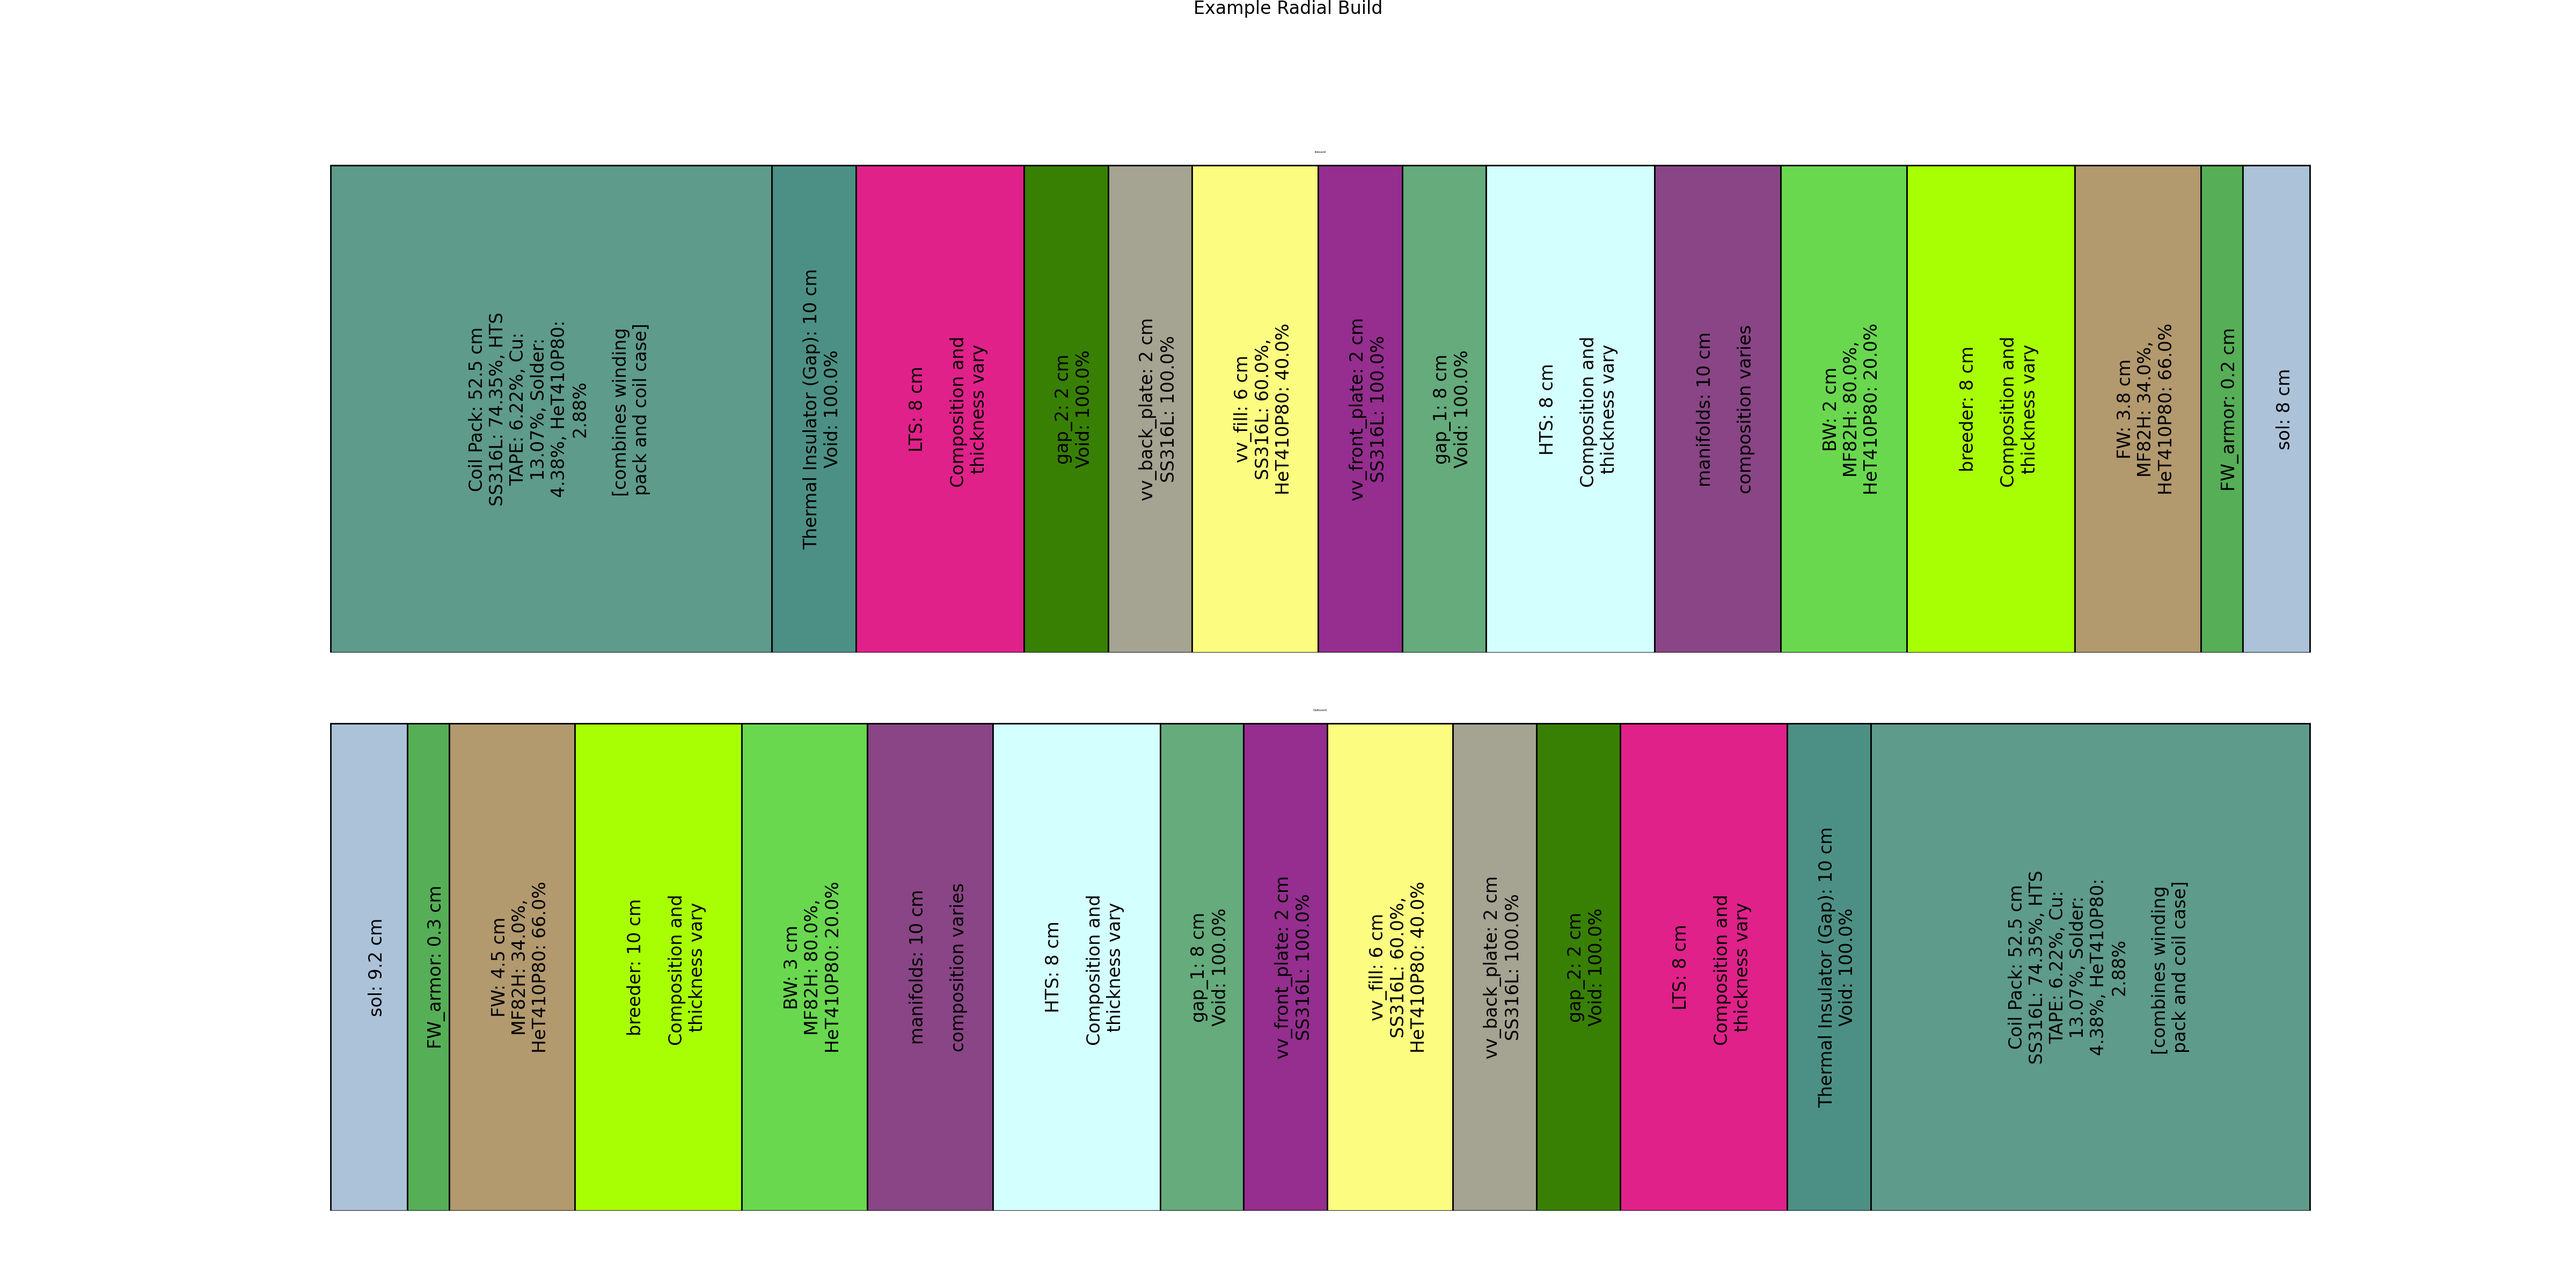
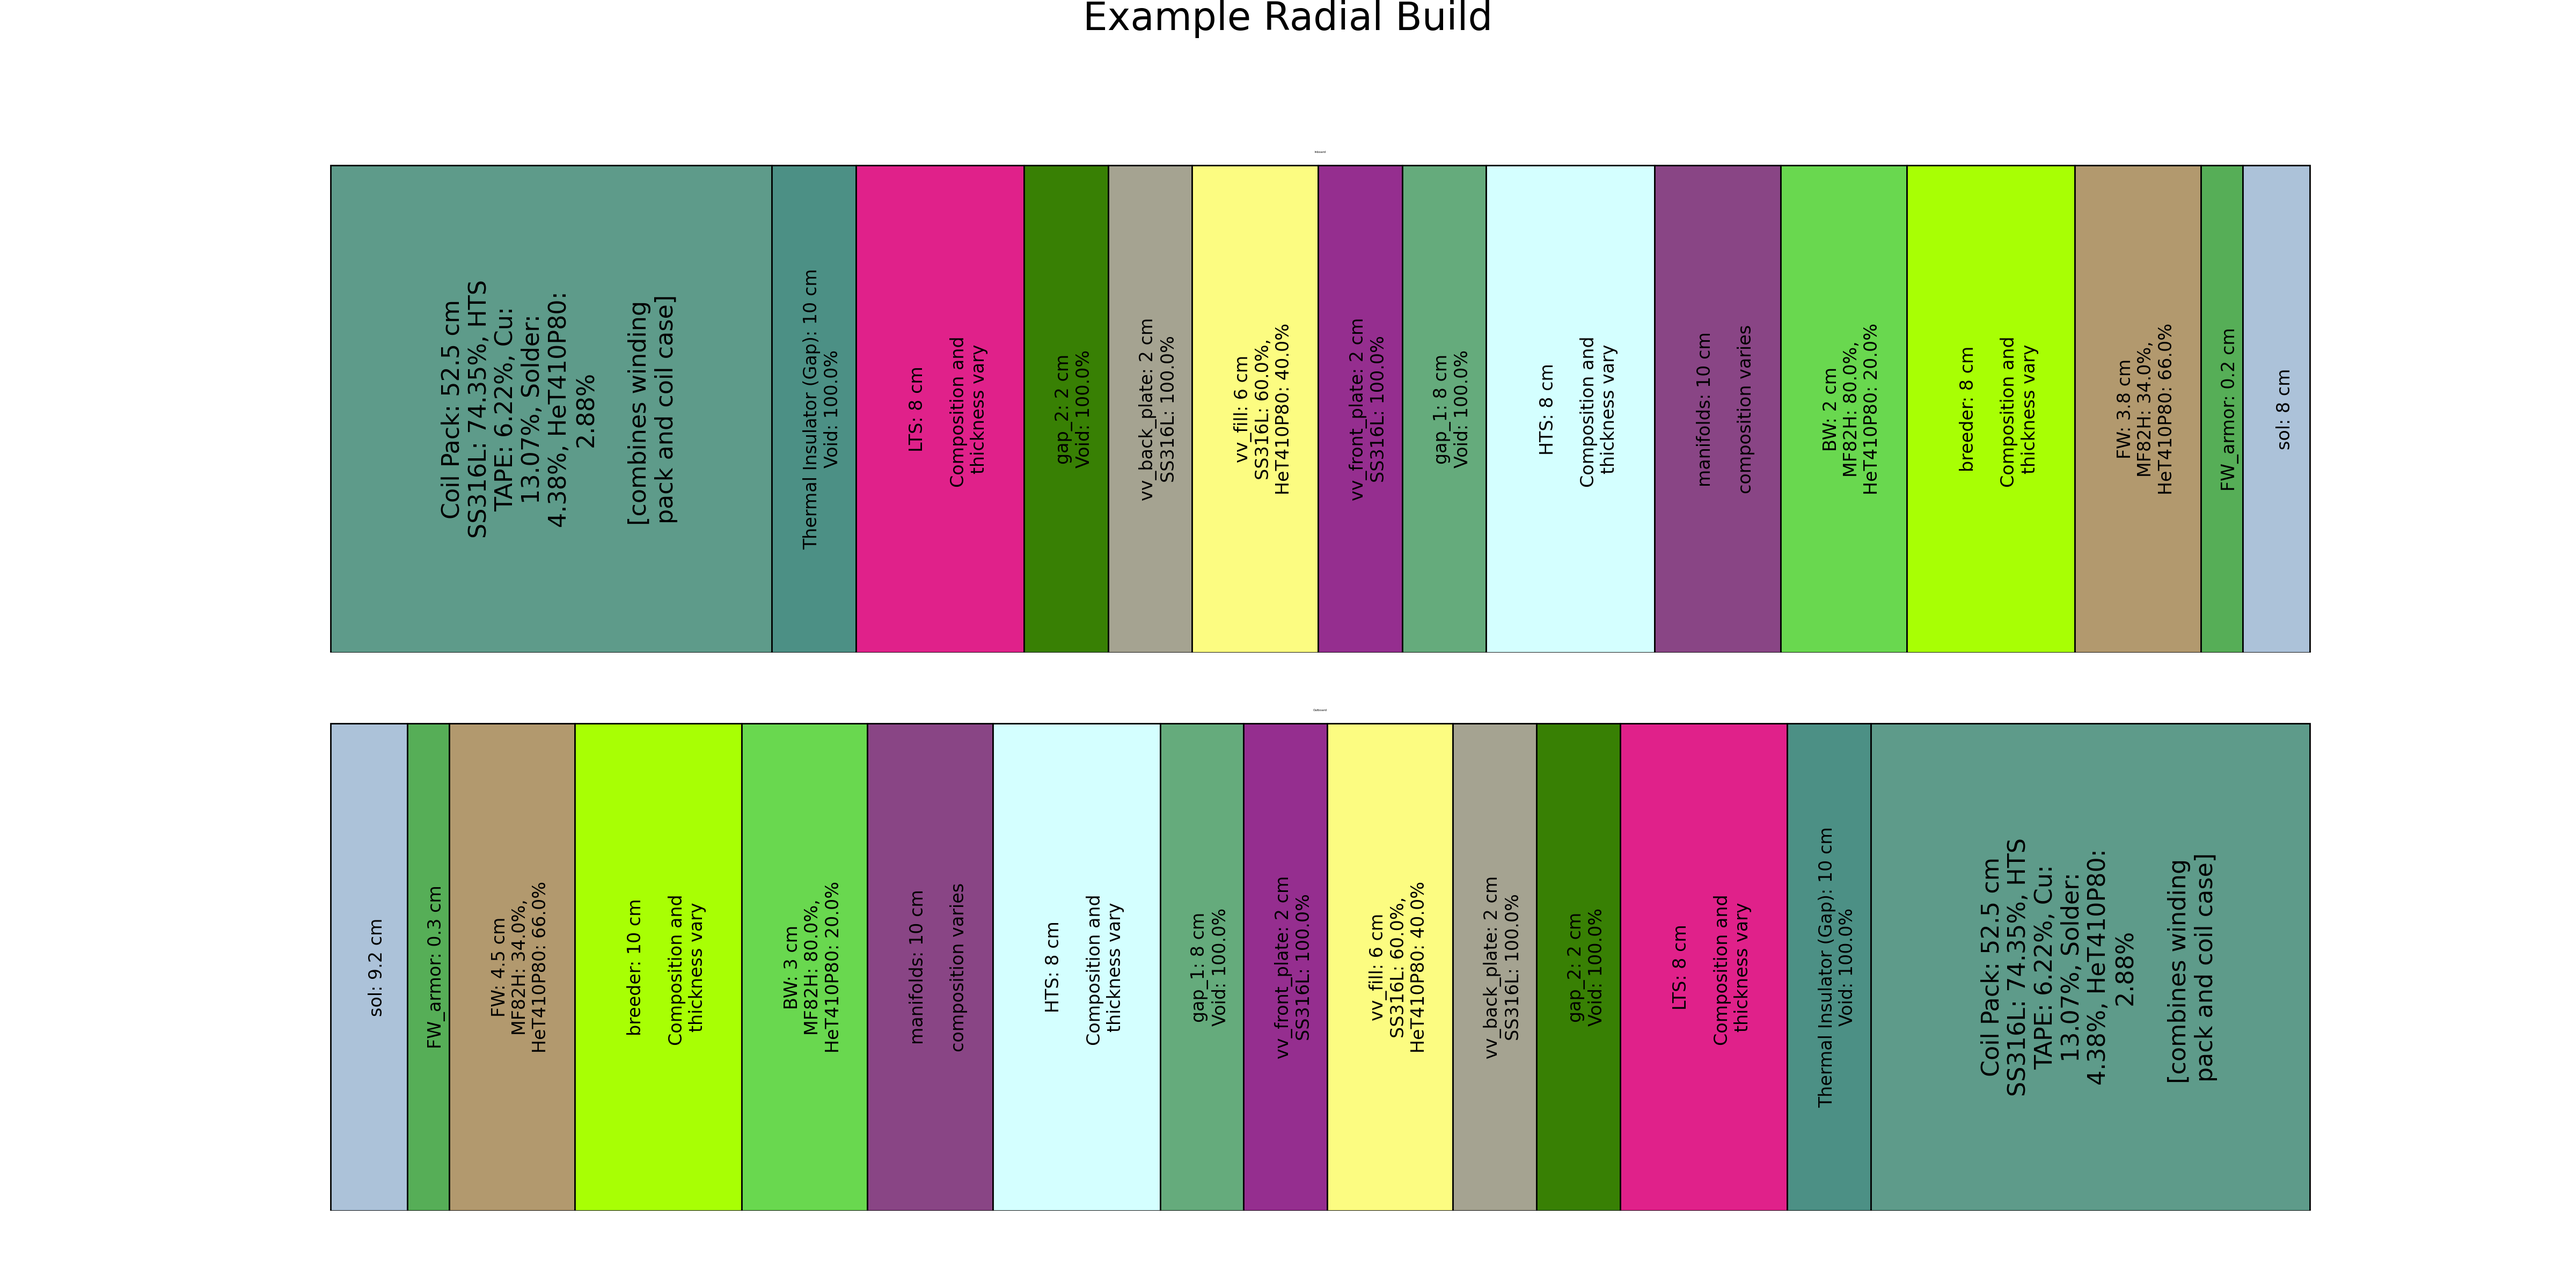
fontsize changes

Changed region(s): [[0.7812, 0.6562, 0.875, 0.8438], [0.1562, 0.2188, 0.25, 0.4062], [0.4062, 0.0, 0.5938, 0.0312]]

diff --git a/radial_build_tools.py b/radial_build_tools.py
@@ -72,8 +72,7 @@ class RadialBuildPlot(object):
     """
 
     def __init__(self, build, **kwargs):
-        self.build = build
-        expand_ib_ob(self.build)
+        self.build = expand_ib_ob(build)
         self.title = "radial_build"
         self.max_characters = 20
         self.max_thickness = 1e6
@@ -203,7 +202,7 @@ class RadialBuildPlot(object):
         thickness_str = ""
         thickness =layer[side]
         thickness_str = f': {thickness} {self.unit}'
-        # visual_thickness = thickness
+
 
         comp_string = ""
         if "composition" in layer:
@@ -272,7 +271,8 @@ class RadialBuildPlot(object):
 
             centerx = ll[0] + visual_thickness / 2 + 1
             centery = height / 2
-            # fontsize = max(5, min(9, visual_thickness / 2))
+            font_size = min( 
+                max(visual_thickness /2,11),18)
             text = ax.text(
                     centerx,
                     centery,
@@ -280,7 +280,7 @@ class RadialBuildPlot(object):
                     rotation="vertical",
                     ha="center",
                     va="center",
-                    fontsize=12,
+                    fontsize=font_size,
             )
             text.set_clip_path(rect)
 
@@ -313,7 +313,7 @@ class RadialBuildPlot(object):
             reverse=False,
         )
 
-        fig.suptitle(self.title, y=1)
+        fig.suptitle(self.title, y=1,fontsize =26)
         plt.subplots_adjust(hspace=0.12, top=0.88, bottom=0.06)
 
         self.figure = fig
